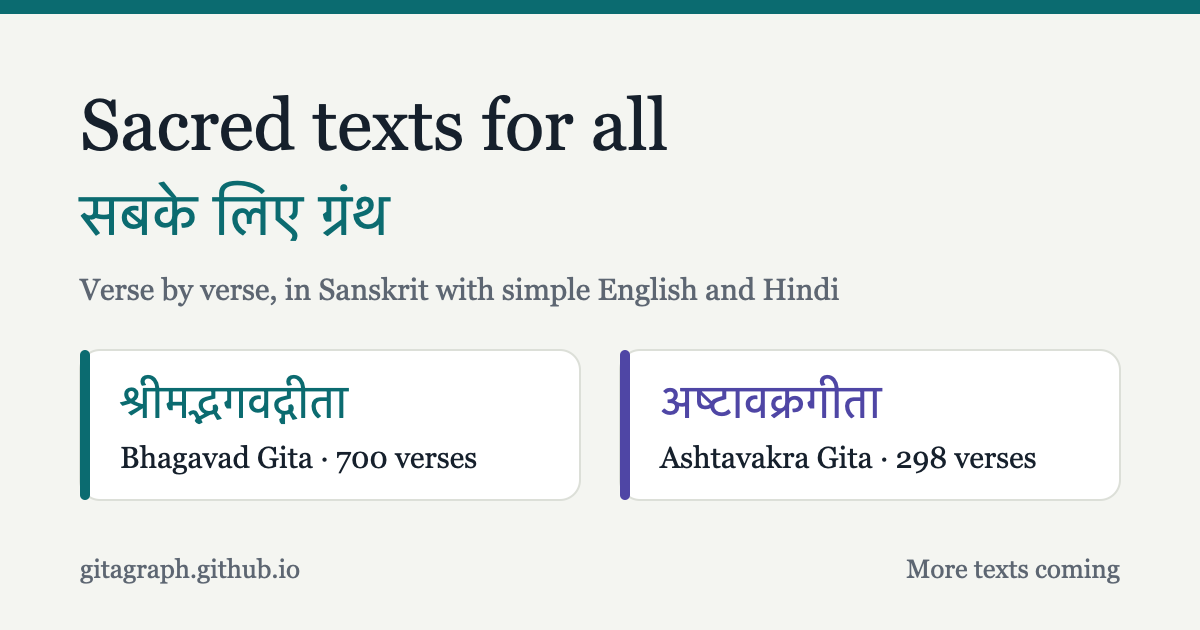
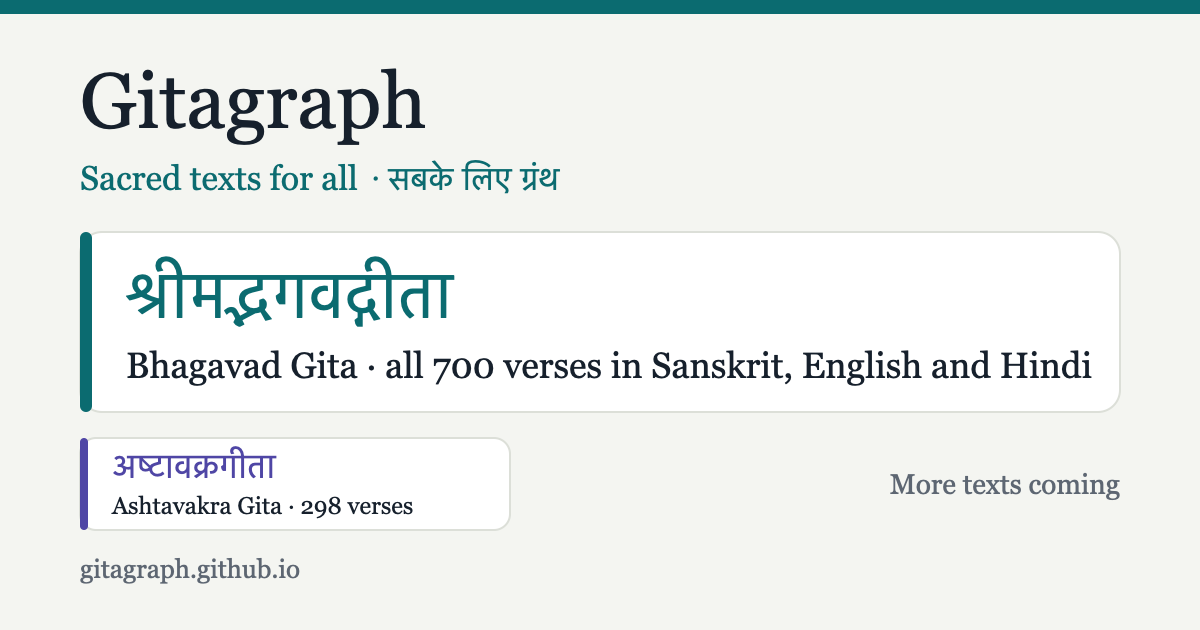
Gitagraph brand on the library home; the Gita as a featured full-width tile and first in the switcher
library.json gains brand_en/brand_hi and featured: true on the Gita; the switcher lists featured
texts first and the rest under More texts; new library share card.

Changed region(s): [[0.0617, 0.0905, 0.925, 0.8444], [0.555, 0.6937, 0.9558, 0.8143], [0.74, 0.8746, 0.9558, 0.9349]]

diff --git a/index.html b/index.html
@@ -3,17 +3,17 @@
 <head>
 <meta charset="utf-8">
 <meta name="viewport" content="width=device-width,initial-scale=1,viewport-fit=cover">
-<title>Sacred texts for all · Bhagavad Gita, Ashtavakra Gita and more</title>
+<title>Gitagraph · Sacred texts for all · Bhagavad Gita, Ashtavakra Gita and more</title>
 <meta name="description" content="India&#x27;s sacred texts, verse by verse, in Sanskrit with simple English and Hindi. Easy for someone opening them for the first time, and a reference for someone who has read them many times.">
 <link rel="canonical" href="https://gitagraph.github.io/">
 <meta name="theme-color" content="#f4f5f1" media="(prefers-color-scheme: light)">
 <meta name="theme-color" content="#0e1219" media="(prefers-color-scheme: dark)">
-<meta property="og:type" content="website"><meta property="og:title" content="Sacred texts for all">
+<meta property="og:type" content="website"><meta property="og:title" content="Gitagraph · Sacred texts for all">
 <meta property="og:description" content="India&#x27;s sacred texts, verse by verse, in Sanskrit with simple English and Hindi. Easy for someone opening them for the first time, and a reference for someone who has read them many times."><meta property="og:url" content="https://gitagraph.github.io/">
-<meta property="og:site_name" content="Sacred texts for all">
-<meta property="og:image" content="https://gitagraph.github.io/shared/og-library.png?v=20261111213146">
+<meta property="og:site_name" content="Gitagraph · Sacred texts for all">
+<meta property="og:image" content="https://gitagraph.github.io/shared/og-library.png?v=20261111215413">
 <meta property="og:image:width" content="1200"><meta property="og:image:height" content="630">
-<meta property="og:image:alt" content="Sacred texts for all (सबके लिए ग्रंथ): the Bhagavad Gita and the Ashtavakra Gita, verse by verse in Sanskrit, English and Hindi">
+<meta property="og:image:alt" content="Gitagraph · Sacred texts for all (गीताग्राफ़ · सबके लिए ग्रंथ): the Bhagavad Gita, with the Ashtavakra Gita and more, verse by verse in Sanskrit, English and Hindi">
 <meta property="og:locale" content="en_IN"><meta property="og:locale:alternate" content="hi_IN">
 <meta name="twitter:card" content="summary_large_image">
 <link rel="icon" href="gita/icon.svg" type="image/svg+xml">
@@ -34,6 +34,8 @@ a{color:inherit} :focus-visible{outline:2px solid var(--accent);outline-offset:2
 .wrap{max-width:980px;margin:0 auto;padding-left:max(16px,env(safe-area-inset-left,0px));padding-right:max(16px,env(safe-area-inset-right,0px));padding-block:12px 48px}
 .hero{padding:20px 0 8px}
 .hero .om{font-family:var(--f-skt);font-size:40px;line-height:1;color:var(--accent);margin:0 0 8px}
+.hero .tag{font-family:var(--f-read);font-weight:600;font-size:clamp(20px,3.4vw,26px);color:var(--accent);margin:0 0 10px}
+:root[lang=hi] .hero .tag{font-family:var(--f-hi);font-weight:400}
 .hero h1{font-family:var(--f-read);font-weight:600;font-size:clamp(28px,5vw,40px);line-height:1.15;margin:0 0 10px;letter-spacing:-.01em;text-wrap:balance}
 :root[lang=hi] .hero h1{font-family:var(--f-hi);font-weight:400}
 .hero p{font-family:var(--f-read);color:var(--muted);font-size:17px;line-height:1.65;margin:0;max-width:60ch}
@@ -51,6 +53,12 @@ a.text:hover{border-color:var(--c)}
 .text .ft{margin-top:auto;padding-top:14px;display:flex;justify-content:space-between;align-items:center;font-size:14px;color:var(--muted);font-variant-numeric:tabular-nums}
 .text .go{color:var(--c);font-weight:600}
 .text.soon{opacity:.62}
+.grid .featured{grid-column:1 / -1}
+.text.feat{padding:26px 26px 22px;border-top-width:7px;background:color-mix(in srgb, var(--c) 6%, var(--surface))}
+.text.feat .nat{font-size:clamp(34px,6vw,46px)}
+.text.feat .nm{font-size:clamp(22px,3.5vw,28px)}
+.text.feat .ds{font-size:17px;max-width:56ch}
+.text.feat .go{display:inline-flex;align-items:center;min-height:44px;padding:0 18px;border-radius:12px;background:var(--c);color:var(--surface)}
 .text .pill{font-size:12px;border:1px solid var(--line);border-radius:999px;padding:2px 10px}
 .note{margin:28px 0 0;color:var(--muted);font-size:14px;line-height:1.6;max-width:70ch}
 .proto{display:inline-block;font-size:11px;font-weight:600;letter-spacing:.06em;text-transform:uppercase;padding:2px 8px;border-radius:999px;border:1px solid var(--line);color:var(--muted);margin-left:6px;vertical-align:middle}
@@ -58,37 +66,39 @@ a.text:hover{border-color:var(--c)}
 </style>
 </head>
 <body>
-<header class="top"><span class="brand" id="brand">Sacred texts</span>
+<header class="top"><span class="brand" id="brand">Gitagraph</span>
   <button class="langpill" id="lang" type="button" aria-label="हिन्दी में देखें">हि</button></header>
 <main class="wrap">
-  <section class="hero"><p class="om" aria-hidden="true">ॐ</p><h1 id="h1">Sacred texts for all<span class="proto" id="beta">Beta</span></h1><p id="lede">India&#x27;s sacred texts, verse by verse, in Sanskrit with simple English and Hindi. Easy for someone opening them for the first time, and a reference for someone who has read them many times.</p></section>
-  <ul class="grid" id="grid"><li><a class="text" href="gita/" style="--lc:#0b6b70;--ld:#4cc0c2"><span class="nat" lang="sa">श्रीमद्भगवद्गीता</span><span class="nm">Bhagavad Gita</span><span class="ds">Krishna&#x27;s teaching to Arjuna on the field of Kurukshetra, in 18 chapters.</span><span class="ft"><span>700 verses</span><span class="go">Read →</span></span></a></li><li><a class="text" href="ashtavakra/" style="--lc:#4f46a5;--ld:#a9a2f2"><span class="nat" lang="sa">अष्टावक्रगीता</span><span class="nm">Ashtavakra Gita</span><span class="ds">The sage Ashtavakra and King Janaka on the Self, freedom and stillness, in 20 chapters.</span><span class="ft"><span>298 verses</span><span class="go">Read →</span></span></a></li><li><div class="text soon" style="--lc:#b45309;--ld:#f0a35a" aria-disabled="true"><span class="nat" lang="sa">सुन्दरकाण्ड</span><span class="nm">Sundar Kand</span><span class="ds">Hanuman&#x27;s journey to Lanka in search of Sita.</span><span class="ft"><span></span><span class="pill">Coming soon</span></span></div></li><li><div class="text soon" style="--lc:#475569;--ld:#a7b4c8" aria-disabled="true"><span class="nat" lang="sa">शिवपुराण</span><span class="nm">Shiv Purana</span><span class="ds">Stories and teachings of Shiva.</span><span class="ft"><span></span><span class="pill">Coming soon</span></span></div></li></ul>
+  <section class="hero"><h1 id="h1">Gitagraph<span class="proto" id="beta">Beta</span></h1><p class="tag" id="tag">Sacred texts for all</p><p id="lede">India&#x27;s sacred texts, verse by verse, in Sanskrit with simple English and Hindi. Easy for someone opening them for the first time, and a reference for someone who has read them many times.</p></section>
+  <ul class="grid" id="grid"><li class="featured"><a class="text feat" href="gita/" style="--lc:#0b6b70;--ld:#4cc0c2"><span class="nat" lang="sa">श्रीमद्भगवद्गीता</span><span class="nm">Bhagavad Gita</span><span class="ds">Krishna&#x27;s teaching to Arjuna on the field of Kurukshetra, in 18 chapters.</span><span class="ft"><span>700 verses</span><span class="go">Start reading →</span></span></a></li><li class=""><a class="text" href="ashtavakra/" style="--lc:#4f46a5;--ld:#a9a2f2"><span class="nat" lang="sa">अष्टावक्रगीता</span><span class="nm">Ashtavakra Gita</span><span class="ds">The sage Ashtavakra and King Janaka on the Self, freedom and stillness, in 20 chapters.</span><span class="ft"><span>298 verses</span><span class="go">Read →</span></span></a></li><li><div class="text soon" style="--lc:#b45309;--ld:#f0a35a" aria-disabled="true"><span class="nat" lang="sa">सुन्दरकाण्ड</span><span class="nm">Sundar Kand</span><span class="ds">Hanuman&#x27;s journey to Lanka in search of Sita.</span><span class="ft"><span></span><span class="pill">Coming soon</span></span></div></li><li><div class="text soon" style="--lc:#475569;--ld:#a7b4c8" aria-disabled="true"><span class="nat" lang="sa">शिवपुराण</span><span class="nm">Shiv Purana</span><span class="ds">Stories and teachings of Shiva.</span><span class="ft"><span></span><span class="pill">Coming soon</span></span></div></li></ul>
   <p class="note" id="note">Every text is free, has no ads and works offline once opened. The Sanskrit comes from public-domain editions; the translations are new and written to be easy to read.</p>
 </main>
 <script>
-const LIB = {"title_en": "Sacred texts for all", "title_hi": "सबके लिए ग्रंथ", "lede_en": "India's sacred texts, verse by verse, in Sanskrit with simple English and Hindi. Easy for someone opening them for the first time, and a reference for someone who has read them many times.", "lede_hi": "भारत के पवित्र ग्रंथ, श्लोक-दर-श्लोक, संस्कृत के साथ सरल हिंदी और अंग्रेज़ी में। पहली बार पढ़ने वालों के लिए आसान, और बार-बार पढ़ चुके लोगों के लिए संदर्भ।", "texts": [{"id": "gita", "path": "gita/", "name_en": "Bhagavad Gita", "name_hi": "भगवद्गीता", "native": "श्रीमद्भगवद्गीता", "desc_en": "Krishna's teaching to Arjuna on the field of Kurukshetra, in 18 chapters.", "desc_hi": "कुरुक्षेत्र में श्रीकृष्ण का अर्जुन को उपदेश, 18 अध्यायों में।", "verses": 700, "status": "live", "accent": "#0b6b70", "accent_dark": "#4cc0c2"}, {"id": "ashtavakra", "path": "ashtavakra/", "name_en": "Ashtavakra Gita", "name_hi": "अष्टावक्र गीता", "native": "अष्टावक्रगीता", "desc_en": "The sage Ashtavakra and King Janaka on the Self, freedom and stillness, in 20 chapters.", "desc_hi": "ऋषि अष्टावक्र और राजा जनक का आत्मा, मुक्ति और शांति पर संवाद, 20 अध्यायों में।", "verses": 298, "status": "live", "accent": "#4f46a5", "accent_dark": "#a9a2f2"}, {"id": "sundarkand", "path": "sundarkand/", "name_en": "Sundar Kand", "name_hi": "सुंदरकांड", "native": "सुन्दरकाण्ड", "desc_en": "Hanuman's journey to Lanka in search of Sita.", "desc_hi": "सीता की खोज में हनुमान की लंका यात्रा।", "verses": null, "status": "coming-soon", "accent": "#b45309", "accent_dark": "#f0a35a"}, {"id": "shiv-purana", "path": "shiv-purana/", "name_en": "Shiv Purana", "name_hi": "शिव पुराण", "native": "शिवपुराण", "desc_en": "Stories and teachings of Shiva.", "desc_hi": "भगवान शिव की कथाएँ और उपदेश।", "verses": null, "status": "coming-soon", "accent": "#475569", "accent_dark": "#a7b4c8"}]};
-const UI = {"en": {"verses": "{n} verses", "soon": "Coming soon", "open": "Read →", "toggle": "हि", "beta": "Beta", "brand": "Sacred texts", "note": "Every text is free, has no ads and works offline once opened. The Sanskrit comes from public-domain editions; the translations are new and written to be easy to read."}, "hi": {"verses": "{n} श्लोक", "soon": "जल्द आ रहा है", "open": "पढ़ें →", "toggle": "EN", "beta": "बीटा", "brand": "पवित्र ग्रंथ", "note": "हर ग्रंथ मुफ़्त है, बिना विज्ञापन, और एक बार खुलने के बाद ऑफ़लाइन भी चलता है। संस्कृत पाठ सार्वजनिक डोमेन संस्करणों से है; अनुवाद नए हैं और सरल भाषा में लिखे गए हैं।"}};
+const LIB = {"brand_en": "Gitagraph", "brand_hi": "गीताग्राफ़", "title_en": "Sacred texts for all", "title_hi": "सबके लिए ग्रंथ", "lede_en": "India's sacred texts, verse by verse, in Sanskrit with simple English and Hindi. Easy for someone opening them for the first time, and a reference for someone who has read them many times.", "lede_hi": "भारत के पवित्र ग्रंथ, श्लोक-दर-श्लोक, संस्कृत के साथ सरल हिंदी और अंग्रेज़ी में। पहली बार पढ़ने वालों के लिए आसान, और बार-बार पढ़ चुके लोगों के लिए संदर्भ।", "texts": [{"id": "gita", "path": "gita/", "name_en": "Bhagavad Gita", "name_hi": "भगवद्गीता", "native": "श्रीमद्भगवद्गीता", "desc_en": "Krishna's teaching to Arjuna on the field of Kurukshetra, in 18 chapters.", "desc_hi": "कुरुक्षेत्र में श्रीकृष्ण का अर्जुन को उपदेश, 18 अध्यायों में।", "verses": 700, "status": "live", "accent": "#0b6b70", "accent_dark": "#4cc0c2", "featured": true}, {"id": "ashtavakra", "path": "ashtavakra/", "name_en": "Ashtavakra Gita", "name_hi": "अष्टावक्र गीता", "native": "अष्टावक्रगीता", "desc_en": "The sage Ashtavakra and King Janaka on the Self, freedom and stillness, in 20 chapters.", "desc_hi": "ऋषि अष्टावक्र और राजा जनक का आत्मा, मुक्ति और शांति पर संवाद, 20 अध्यायों में।", "verses": 298, "status": "live", "accent": "#4f46a5", "accent_dark": "#a9a2f2"}, {"id": "sundarkand", "path": "sundarkand/", "name_en": "Sundar Kand", "name_hi": "सुंदरकांड", "native": "सुन्दरकाण्ड", "desc_en": "Hanuman's journey to Lanka in search of Sita.", "desc_hi": "सीता की खोज में हनुमान की लंका यात्रा।", "verses": null, "status": "coming-soon", "accent": "#b45309", "accent_dark": "#f0a35a"}, {"id": "shiv-purana", "path": "shiv-purana/", "name_en": "Shiv Purana", "name_hi": "शिव पुराण", "native": "शिवपुराण", "desc_en": "Stories and teachings of Shiva.", "desc_hi": "भगवान शिव की कथाएँ और उपदेश।", "verses": null, "status": "coming-soon", "accent": "#475569", "accent_dark": "#a7b4c8"}]};
+const UI = {"en": {"verses": "{n} verses", "soon": "Coming soon", "open": "Read →", "start": "Start reading →", "toggle": "हि", "beta": "Beta", "brand": "Gitagraph", "note": "Every text is free, has no ads and works offline once opened. The Sanskrit comes from public-domain editions; the translations are new and written to be easy to read."}, "hi": {"verses": "{n} श्लोक", "soon": "जल्द आ रहा है", "open": "पढ़ें →", "start": "पढ़ना शुरू करें →", "toggle": "EN", "beta": "बीटा", "brand": "गीताग्राफ़", "note": "हर ग्रंथ मुफ़्त है, बिना विज्ञापन, और एक बार खुलने के बाद ऑफ़लाइन भी चलता है। संस्कृत पाठ सार्वजनिक डोमेन संस्करणों से है; अनुवाद नए हैं और सरल भाषा में लिखे गए हैं।"}};
 const esc = s => String(s ?? "").replace(/[&<>"]/g, c => ({"&":"&amp;","<":"&lt;",">":"&gt;",'"':"&quot;"}[c]));
 function card(t, l){
-  const u = UI[l], nm = l==="hi" ? t.name_hi : t.name_en, ds = l==="hi" ? t.desc_hi : t.desc_en;
+  const u = UI[l], nm = l==="hi" ? t.name_hi : t.name_en, ds = l==="hi" ? t.desc_hi : t.desc_en, f = !!t.featured;
   const style = `style="--lc:${esc(t.accent)};--ld:${esc(t.accent_dark || t.accent)}"`;
   const body = `<span class="nat" lang="sa">${esc(t.native)}</span><span class="nm">${esc(nm)}</span><span class="ds">${esc(ds)}</span>`;
   return t.status==="live"
-    ? `<li><a class="text" href="${esc(t.path)}" ${style}>${body}<span class="ft"><span>${esc(u.verses.replace("{n}", t.verses))}</span><span class="go">${esc(u.open)}</span></span></a></li>`
+    ? `<li class="${f ? "featured" : ""}"><a class="text${f ? " feat" : ""}" href="${esc(t.path)}" ${style}>${body}<span class="ft"><span>${esc(u.verses.replace("{n}", t.verses))}</span><span class="go">${esc(f ? u.start : u.open)}</span></span></a></li>`
     : `<li><div class="text soon" ${style} aria-disabled="true">${body}<span class="ft"><span></span><span class="pill">${esc(u.soon)}</span></span></div></li>`;
 }
+const ORDERED = [...LIB.texts].sort((a,b) => (b.featured?1:0) - (a.featured?1:0));
 function setLang(l){
   document.documentElement.lang = l;
   try{ localStorage.setItem("library-lang", l); }catch(e){}
   const u = UI[l];
-  document.getElementById("h1").firstChild.textContent = l==="hi" ? LIB.title_hi : LIB.title_en;
+  document.getElementById("h1").firstChild.textContent = l==="hi" ? LIB.brand_hi : LIB.brand_en;
+  document.getElementById("tag").textContent = l==="hi" ? LIB.title_hi : LIB.title_en;
   document.getElementById("beta").textContent = u.beta;
   document.getElementById("lede").textContent = l==="hi" ? LIB.lede_hi : LIB.lede_en;
   document.getElementById("note").textContent = u.note;
   document.getElementById("brand").textContent = u.brand;
-  document.getElementById("grid").innerHTML = LIB.texts.map(t => card(t, l)).join("");
+  document.getElementById("grid").innerHTML = ORDERED.map(t => card(t, l)).join("");
   const b = document.getElementById("lang"); b.textContent = u.toggle; b.setAttribute("aria-label", l==="hi" ? "Switch to English" : "हिन्दी में देखें");
-  document.title = (l==="hi" ? LIB.title_hi : LIB.title_en) + (l==="hi" ? " · भगवद्गीता, अष्टावक्र गीता और अधिक" : " · Bhagavad Gita, Ashtavakra Gita and more");
+  document.title = l==="hi" ? `${LIB.brand_hi} · ${LIB.title_hi} · भगवद्गीता, अष्टावक्र गीता और अधिक` : `${LIB.brand_en} · ${LIB.title_en} · Bhagavad Gita, Ashtavakra Gita and more`;
 }
 document.getElementById("lang").onclick = () => setLang(document.documentElement.lang==="hi" ? "en" : "hi");
 let saved = "en"; try{ saved = localStorage.getItem("library-lang") || "en"; }catch(e){}

diff --git a/shared/library.js b/shared/library.js
@@ -8,8 +8,8 @@
   const ROOT = new URL("../", script.src).pathname;          // .../shared/library.js -> library root
   const KEY = "library-json";
   const T = {
-    en: { all: "All texts", other: "Other texts", soon: "Coming soon", home: "All texts →", verses: n => `${n} verses` },
-    hi: { all: "सभी ग्रंथ", other: "अन्य ग्रंथ", soon: "जल्द आ रहा है", home: "सभी ग्रंथ →", verses: n => `${n} श्लोक` }
+    en: { all: "All texts", more: "More texts", other: "Other texts", soon: "Coming soon", home: "All texts →", verses: n => `${n} verses` },
+    hi: { all: "सभी ग्रंथ", more: "और ग्रंथ", other: "अन्य ग्रंथ", soon: "जल्द आ रहा है", home: "सभी ग्रंथ →", verses: n => `${n} श्लोक` }
   };
   const L = () => ((document.documentElement.lang || "en").startsWith("hi") ? "hi" : "en");
   const esc = s => String(s ?? "").replace(/[&<>"]/g, c => ({ "&": "&amp;", "<": "&lt;", ">": "&gt;", '"': "&quot;" }[c]));
@@ -51,7 +51,9 @@
     if (!open || !lib) return;
     m = document.createElement("div");
     m.id = "libmenu"; m.className = "lib-menu"; m.setAttribute("role", "menu");
-    m.innerHTML = `<p class="lib-h">${esc(T[L()].all)}</p>${lib.texts.map(item).join("")}<a class="lib-home" href="${ROOT}">${esc(T[L()].home)}</a>`;
+    // featured texts (the Gita) first; the rest under "More texts"
+    const feat = lib.texts.filter(t => t.featured), rest = lib.texts.filter(t => !t.featured);
+    m.innerHTML = `${feat.map(item).join("")}${rest.length ? `<p class="lib-h">${esc(T[L()].more)}</p>${rest.map(item).join("")}` : ""}<a class="lib-home" href="${ROOT}">${esc(T[L()].home)}</a>`;
     document.body.appendChild(m);
     // line the menu up under the button, kept inside the screen on narrow phones
     const r = b.getBoundingClientRect(), w = m.offsetWidth;
@@ -66,7 +68,7 @@
     const host = document.querySelector(".main") || document.body;
     let f = document.getElementById("libfoot");
     if (!f) { f = document.createElement("nav"); f.id = "libfoot"; f.className = "lib-foot"; host.appendChild(f); }
-    const others = lib.texts.filter(t => !isHere(t));
+    const others = lib.texts.filter(t => !isHere(t)).sort((a, b) => (b.featured ? 1 : 0) - (a.featured ? 1 : 0));
     f.setAttribute("aria-label", T[L()].other);
     f.innerHTML = `<p class="lib-h">${esc(T[L()].other)}</p><div class="lib-row">${others.map(item).join("")}</div><a class="lib-home" href="${ROOT}">${esc(T[L()].home)}</a>`;
   }

diff --git a/404.html b/404.html
@@ -16,6 +16,8 @@ a{color:inherit} :focus-visible{outline:2px solid var(--accent);outline-offset:2
 .wrap{max-width:980px;margin:0 auto;padding-left:max(16px,env(safe-area-inset-left,0px));padding-right:max(16px,env(safe-area-inset-right,0px));padding-block:12px 48px}
 .hero{padding:20px 0 8px}
 .hero .om{font-family:var(--f-skt);font-size:40px;line-height:1;color:var(--accent);margin:0 0 8px}
+.hero .tag{font-family:var(--f-read);font-weight:600;font-size:clamp(20px,3.4vw,26px);color:var(--accent);margin:0 0 10px}
+:root[lang=hi] .hero .tag{font-family:var(--f-hi);font-weight:400}
 .hero h1{font-family:var(--f-read);font-weight:600;font-size:clamp(28px,5vw,40px);line-height:1.15;margin:0 0 10px;letter-spacing:-.01em;text-wrap:balance}
 :root[lang=hi] .hero h1{font-family:var(--f-hi);font-weight:400}
 .hero p{font-family:var(--f-read);color:var(--muted);font-size:17px;line-height:1.65;margin:0;max-width:60ch}
@@ -33,6 +35,12 @@ a.text:hover{border-color:var(--c)}
 .text .ft{margin-top:auto;padding-top:14px;display:flex;justify-content:space-between;align-items:center;font-size:14px;color:var(--muted);font-variant-numeric:tabular-nums}
 .text .go{color:var(--c);font-weight:600}
 .text.soon{opacity:.62}
+.grid .featured{grid-column:1 / -1}
+.text.feat{padding:26px 26px 22px;border-top-width:7px;background:color-mix(in srgb, var(--c) 6%, var(--surface))}
+.text.feat .nat{font-size:clamp(34px,6vw,46px)}
+.text.feat .nm{font-size:clamp(22px,3.5vw,28px)}
+.text.feat .ds{font-size:17px;max-width:56ch}
+.text.feat .go{display:inline-flex;align-items:center;min-height:44px;padding:0 18px;border-radius:12px;background:var(--c);color:var(--surface)}
 .text .pill{font-size:12px;border:1px solid var(--line);border-radius:999px;padding:2px 10px}
 .note{margin:28px 0 0;color:var(--muted);font-size:14px;line-height:1.6;max-width:70ch}
 .proto{display:inline-block;font-size:11px;font-weight:600;letter-spacing:.06em;text-transform:uppercase;padding:2px 8px;border-radius:999px;border:1px solid var(--line);color:var(--muted);margin-left:6px;vertical-align:middle}

diff --git a/ADDING_A_TEXT.md b/ADDING_A_TEXT.md
@@ -23,7 +23,9 @@ The site is one library root plus one folder per text:
    `<script src="{ROOT}shared/library.js?v={stamp}" defer></script>`, where `ROOT` is the library root ("/").
 5. **library.json entry.** Add one entry in `granth-library/library.json` (id, path, names EN/HI, native
    title, one-line descriptions EN/HI, verse count, `"status": "live"`, accent colours). Other sites pick
-   it up on their next visit; no need to rebuild them.
+   it up on their next visit; no need to rebuild them. Leave out `"featured"`: only the Gita carries
+   `"featured": true`, which puts it first, full width, on the home page and at the top of the switcher,
+   with every other text listed under "More texts / और ग्रंथ".
 6. **Build and publish.** Run the text's `build.py`, then `granth-library/build.py` (which adds the
    text's sitemap to the root sitemap index), then commit and push from GitHub Desktop.
 
